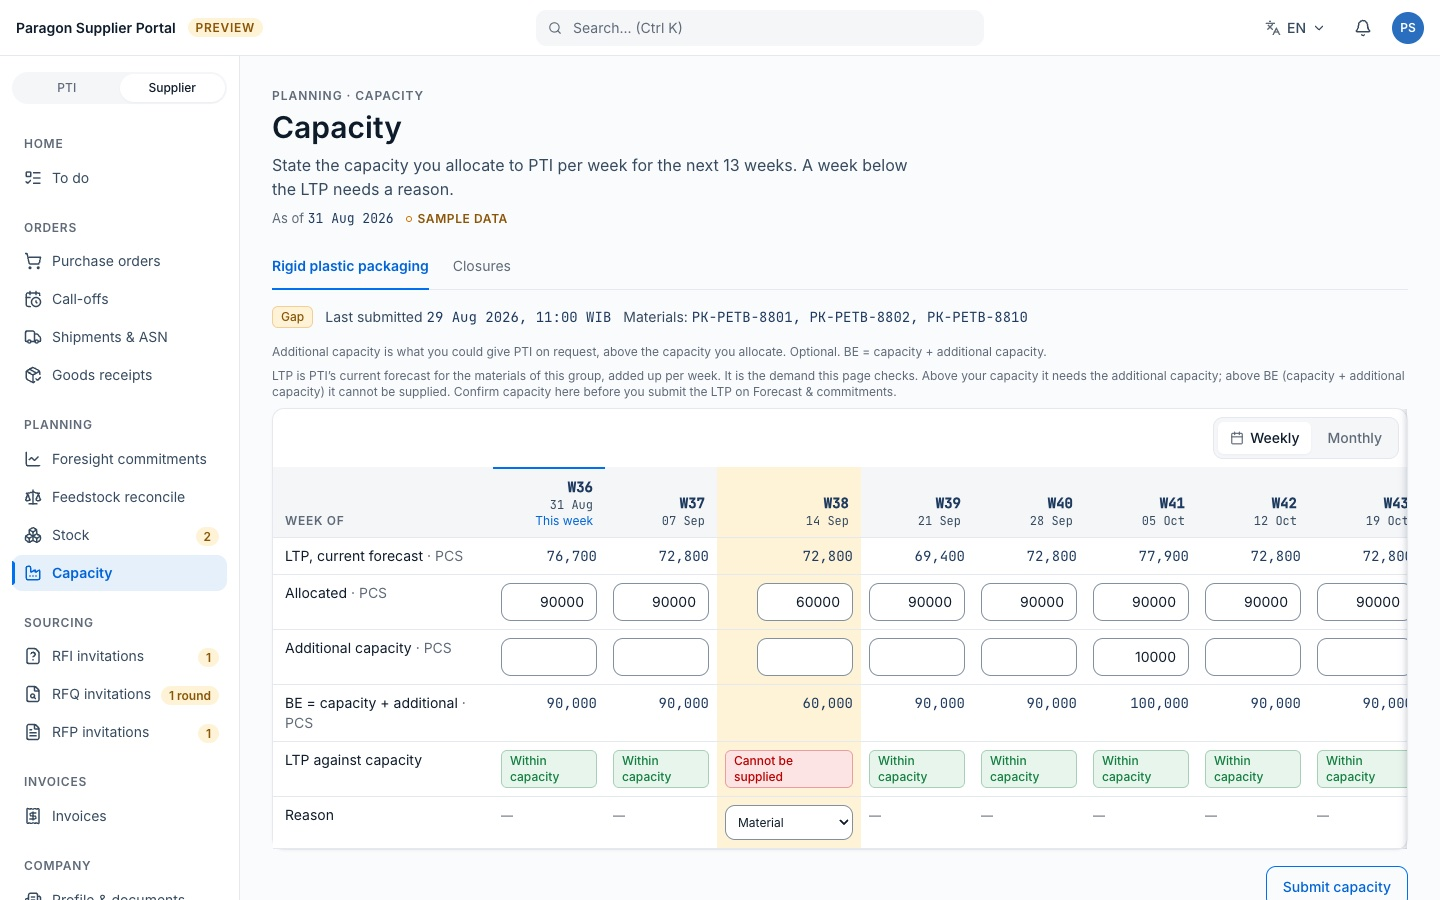
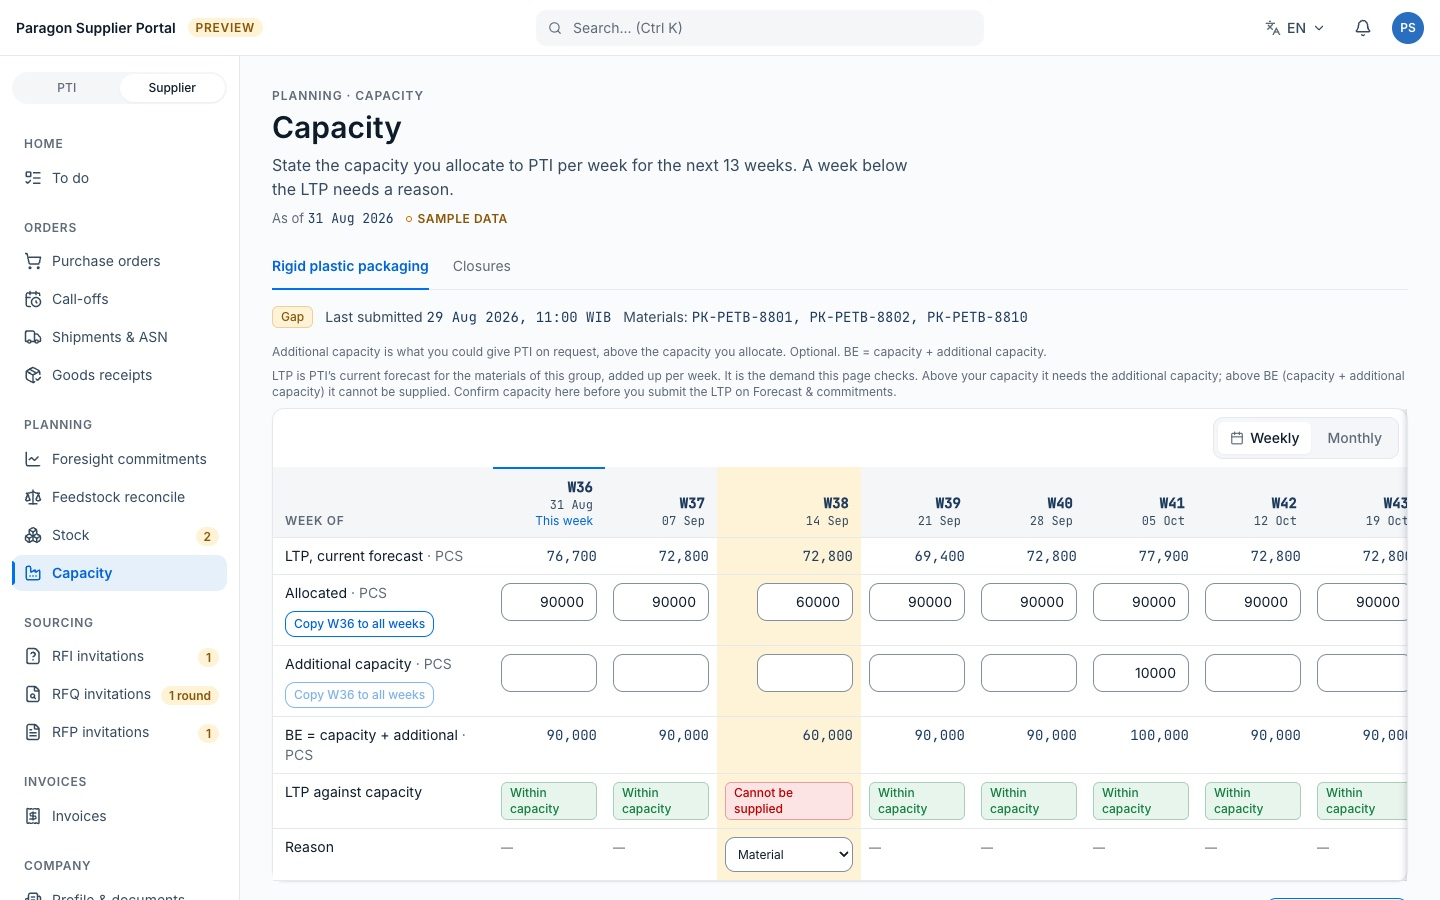
docs: inventory docs and screenshots match main 93397234
Retake figures 4.2-1, 4.4-3 and 4.5-2 (Copy W36 to all weeks, "PTI has N
questions for you"); handover polish rows, evaluation X-01 and BL-138
progress updated after MR !36.

Changed region(s): [[0.3438, 0.6844, 1.0, 1.0], [0.1875, 0.6844, 0.3125, 0.9644], [0.9375, 0.7467, 0.9688, 0.7778]]

diff --git a/docs/supplier-hub/BACKLOG.md b/docs/supplier-hub/BACKLOG.md
@@ -117,7 +117,7 @@ Nothing blocks these.
 | BL-124 | FU-2: `CLAUDE.md:241` says the RFQ review and award verbs are "not co-reachable on any RFQ in the tree". Since PR #64 both show on the same RFQ | A stale sentence in the file every session reads. The operator edits `CLAUDE.md`; task PRs do not | S | PR #64 notes |
 | BL-127 | FU-5 and tidy-ups left by the RFx build: remove the lineless legacy award payload that `t_rfq_award` still accepts, together with the C1 command tests that pin it (no screen sends it since PR #64); correct the stale `applyTransition` comments in the purchase-requisition and supplier-application targets (PR #54, not done) and the `rfxPrefill.ts` comment calling the RFP → RFQ wizard wiring a later batch (build plan AR-09) | A dead path, and comments that describe code that no longer exists | S | PR #54, #64 |
 | BL-84 | Accessibility items left by BL-31: field errors not tied to their field (many forms); h1 jumping to h3 on marketplace, discovery, storefront, WhatsApp demo, supplier comm hub and shipments; unnamed controls in the contract wizard obligation grid and WhatsApp demo; top-bar menu button does nothing and the notification count is not in its name; login contrast and missing h1; 404 title in English only; then a session with a real screen reader | Needed before UAT (SC-07) | M | `BUILD-GAP.md` "Accessibility (BL-31)" |
-| BL-138 | Numbers that ignore the UI language: 19 places in 14 files format with a fixed `toLocaleString('en-US')` (among them the call-off quantities in `callOffs/callOffDisplay.tsx` and the stock figures in `inventory/inventoryDisplay.tsx`), and 14 more with the browser's own `toLocaleString()`. In Indonesian the call-offs page reads "95,000 PCS". Move each to `formatNumber`, or state at the site why it must stay fixed (an export file, for example) | Left by BL-83, which made `formatNumber` follow the UI language | S | Derive the sites with `grep -rn "toLocaleString(" src/pages-v2 src/components`, specs excluded |
+| BL-138 | Numbers that ignore the UI language: 19 places in 14 files format with a fixed `toLocaleString('en-US')` (among them the call-off quantities in `callOffs/callOffDisplay.tsx` and the stock figures in `inventory/inventoryDisplay.tsx`), and 14 more with the browser's own `toLocaleString()`. In Indonesian the call-offs page reads "95,000 PCS". Move each to `formatNumber`, or state at the site why it must stay fixed (an export file, for example) **Progress 2026-10-23:** inventory (X-01), call-offs, Shipments & ASN, Buyer shipments and the GR tolerance note now use `formatNumber` (BL-223); `git grep "toLocaleString('en-US'\|NumberFormat('en-US'" src` still finds forecasts, invoices, goods receipts (supplier), negotiations and RFx displays. | Left by BL-83, which made `formatNumber` follow the UI language | S | Derive the sites with `grep -rn "toLocaleString(" src/pages-v2 src/components`, specs excluded |
 | BL-139 | Sample receipts name ASNs the ASN read cannot find: all 17 receipts that name an ASN use the shipments' series (`ASN-2026-001` to `-018`, `mockShipments.ts`), while the ASN read (`getASNs`, `asnStore`) holds a different series (`ASN-2025-00198` and 5 more); GR-2026-015 to 017 name `ASN-2026-025` to `-027`, which exist in neither. So no receipt compares against its ASN, and every one falls back to the ordered quantity | The ASN-versus-received comparison (REQ-E07-06 BR-03) cannot be demonstrated on any sample receipt | S | Found building BL-33 (2026-09-29); `receivedWithoutAsn.test.tsx` states it |
 | BL-141 | The SAP interface monitor would show the real wall-clock time for a failed SAP post: `sapInterfaceRules.ts:145` copies the audit event's `ts` (wall clock, pinned by contract C3) and `InterfaceMonitor.tsx:67` renders it, while the message's age reads the hub clock. No demo action produces a failed settle today, so nothing shows it yet. Fix: stamp the monitor row from the hub clock and leave `ts` alone | A second "now" on one page, the class BL-34 closed | S | Found checking BL-34 (2026-09-29) |
 | BL-142 | Removing a file from a revised record frees the file for the session, though an earlier version still lists it: `SessionAttachments` calls `files.release` on remove (`SessionAttachments.tsx:73, 82`), and firm offers (BL-129) and response documents keep every version's file list. The earlier version then shows the file as not available | A version's own record points at a file it can no longer open | S | With BL-27 if real storage keeps files per version |

diff --git a/docs/supplier-hub/INVENTORY-ENGINEERING-HANDOVER-2026-10.md b/docs/supplier-hub/INVENTORY-ENGINEERING-HANDOVER-2026-10.md
@@ -308,7 +308,7 @@ A refused verb returns `POLICY_REJECTED:<hook>:<reason>`. The screen translates 
 | Distributor principal on a shipment | ETA fallback uses the distributor's shortest principal lead time | The leg's own principal | BL-158 |
 | Planning groups in SAP | Mastered in the hub | Agree with MDM (MAT-D12) | — |
 | Move demand | Not on Capacity | On the order plan (INV-D8) | — |
-| Polish | Listed, not built | Wave 2 wording and edge states; wave 1 leftovers; Call-offs quantity format; capacity grid polish; Risk page thresholds | BL-227, BL-224, BL-223, BL-186, BL-76 |
+| Polish | Mostly built 2026-10-23 (BL-221, BL-223, BL-224, BL-227 wording; MR !36); left: capacity accept undo and the Ask supplier label (BL-227) | Wave 2 wording and edge states; wave 1 leftovers; Call-offs quantity format; capacity grid polish; Risk page thresholds | BL-227, BL-224, BL-223, BL-186, BL-76 |
 | Sign-in | No named person | Named actor on every record | F1 |
 
 ---
@@ -341,7 +341,7 @@ Built as recommended; the owner may change any of them.
 | Area | Call | Recommendation |
 |---|---|---|
 | Capacity decision | An accepted week cannot be undone and stays "Accepted" if the week later turns red | Keep until a planner needs to undo; then add a withdraw verb (BL-227) |
-| Supplier To do | The block reads "PTI is asking about N of your materials" while a capacity ask names a planning group and week | Reword to "N questions" (BL-227) |
+| Supplier To do | The block reads "PTI has N questions for you" (BL-227 wording, built 2026-10-23) | Done |
 | Ask supplier | The button keeps one label; the per-surface wording is a hint line | Keep (BL-227) |
 | Alerts | Grouped per supplier; one card per supplier × material waits for the rule list | Keep until BL-150 (INV-D5) |
 | Supplier access | Remove acts at once, with no confirmation (P-13) | Add a confirmation in the Minor findings build |

diff --git a/docs/supplier-hub/user-guide/screens/inventory-2026-10/README.md b/docs/supplier-hub/user-guide/screens/inventory-2026-10/README.md
@@ -1,6 +1,6 @@
 # Inventory & Capacity screens, October 2026
 
-Screenshots of `main` at 71aaa3d6 (Inventory & Capacity UX waves 1 and 2), taken at 1440 × 900 on the local build with the hub clock at 31 Aug 2026. They are the figures in section 4 of the URS ("URS & RNI Form - PTI Supplier Hub.docx") and illustrate `INVENTORY-ENGINEERING-HANDOVER-2026-10.md`.
+Screenshots of `main` at 71aaa3d6 (Inventory & Capacity UX waves 1 and 2); 4.2-1, 4.4-3 and 4.5-2 retaken on 93397234 (23 Oct 2026, quick wins), taken at 1440 × 900 on the local build with the hub clock at 31 Aug 2026. They are the figures in section 4 of the URS ("URS & RNI Form - PTI Supplier Hub.docx") and illustrate `INVENTORY-ENGINEERING-HANDOVER-2026-10.md`.
 
 | File | Figure | Persona | Route | Shows |
 |---|---|---|---|---|
@@ -11,6 +11,6 @@ Screenshots of `main` at 71aaa3d6 (Inventory & Capacity UX waves 1 and 2), taken
 | `4.3-1-supplier-access.jpg` | 4.3-1 | PTI | `/buyer/supplier-access` | Grant, change or remove PTI stock access |
 | `4.4-1-pti-capacity.jpg` | 4.4-1 | PTI | `/buyer/capacity` | Weekly capacity per supplier and planning group |
 | `4.4-2-pti-capacity-decision.jpg` | 4.4-2 | PTI | `/buyer/capacity` | PTI's decision row: red week still short, open ask |
-| `4.4-3-supplier-capacity.jpg` | 4.4-3 | Supplier (sup-007) | `/supplier/capacity` | Weekly capacity, additional capacity, reason |
+| `4.4-3-supplier-capacity.jpg` | 4.4-3 | Supplier (sup-007) | `/supplier/capacity` | Weekly capacity, additional capacity, reason, "Copy W36 to all weeks" |
 | `4.5-1-pti-alerts.jpg` | 4.5-1 | PTI | `/buyer/alerts` | Impact in days, next step and actions per alert |
-| `4.5-2-supplier-asks.jpg` | 4.5-2 | Supplier (sup-007) | `/supplier/home` | "PTI is asking about 2 of your materials" |
+| `4.5-2-supplier-asks.jpg` | 4.5-2 | Supplier (sup-007) | `/supplier/home` | "PTI has 2 questions for you" |

diff --git a/docs/supplier-hub/research/INVENTORY-UX-EVALUATION-2026-10.md b/docs/supplier-hub/research/INVENTORY-UX-EVALUATION-2026-10.md
@@ -362,6 +362,6 @@ Scope ruled 2026-10-22: the 13 Major findings except P-04 (waits for BL-150, INV
 | S-02 | Built | 1 (1C) | `stockPageUx.page.test.jsx` (S-02); `weeklyUpdate.page.test.jsx` |
 | S-03 | Built | 1 (1C) | `stockPageUx.page.test.jsx` (S-03); `services/transitions/inventoryRules.test.js` |
 | S-04 | Built (the hub ask, INV-D9) | 2 (2A) | `services/data/mock/supplierAsk.test.js`; `pages-v2/inventory/ptiAsks.s04.page.test.jsx`; `AskSupplierButton.page.test.jsx` |
-| X-01 | Built (Call-offs page left: BL-223) | 1 (1D) | `pages-v2/inventory/inventoryDisplay.qty.test.js`; `inventory/localeQty.x01.page.test.jsx` |
+| X-01 | Built; Call-offs and Shipments followed on 2026-10-23 (BL-223) | 1 (1D) | `pages-v2/inventory/inventoryDisplay.qty.test.js`; `inventory/localeQty.x01.page.test.jsx` |
 | P-10 to P-17, S-05 to S-12, X-02 to X-05 | Not in scope (Minor, Polish) | – | – |
 
